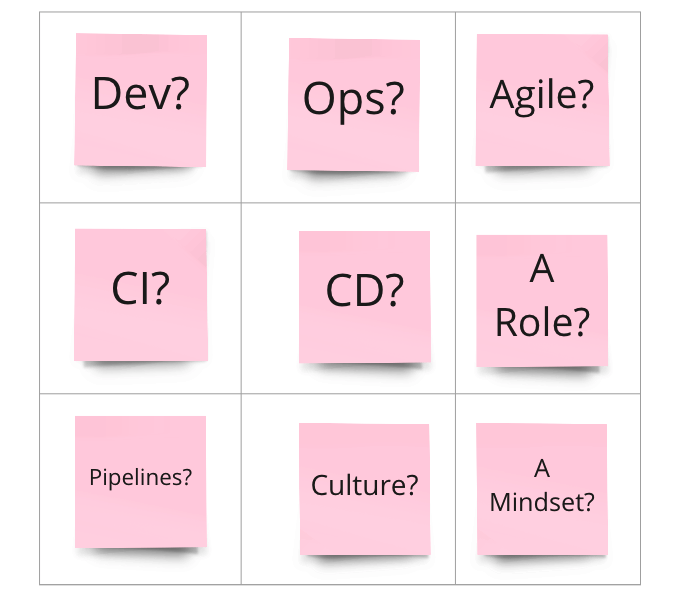
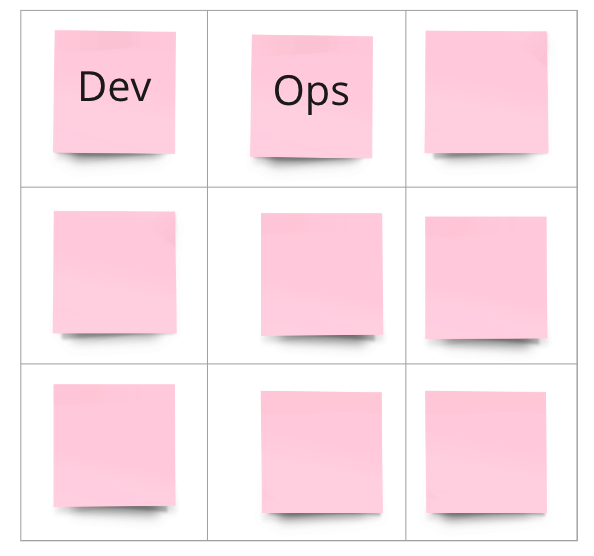
🐹 What is DevOps slides are updated 🐹

diff --git a/docs/slides/content/what-is-devops.md b/docs/slides/content/what-is-devops.md
@@ -5,6 +5,7 @@ TL500 <!-- {.element: class="title-color"} -->
 
 
 
+#### _Choose one of the two exercises that you like most :)_
 ## Exercise - DevOps is...
 _Complete the sentence "DevOps is..."_
 1. Everyone grab one sticky note.
@@ -14,17 +15,55 @@ come to mind.
 
 
 
+## Exercise - What is DevOps?
+* Create a 3 x 3 table on a paper sheet.
+* Fill each of your nine squares with a term, phrase, or idea related to DevOps.
+* Yell out "Bingo!!!" when you match a row up, down, or diagonal during this presentation.
+
+![devops-bingo](images/what-is-devops/devops-bingo.png)<!-- {.element: class="" style="height:450px"} -->
+
+
+
 <!--.slide: id="dev-ops" -->
 ## DevOps Culture and Practice
 
 
 
-## What is DevOps?
-* Create a 3 x 3 table on a paper sheet.
-* Fill each of your nine squares with a term, phrase, or idea related to DevOps.
-* Yell out "Bingo!!!" when you match a row up, down, or diagonal during the section.
+<div class="r-stack">
+  <div class="fragment fade-out" data-fragment-index="0" >
+    <p style="position: absolute; left:0; bottom: 0; width:100%; font-size:80%"> Happy customers - The ultimate goal of organizations</p>
+    <img src="images/what-is-devops/devops-story-1.jpg">
+  </div>
+  <div class="fragment fade-in-then-out" data-fragment-index="0" >
+    <p style="position: absolute; left:0; bottom: 0; width:95%; text-align: center; font-size:80%"> Profit - A common goal of every commercial organization</p>
+    <img src="images/what-is-devops/devops-story-2.jpg">
+  </div>
+  <div class="fragment fade-in-then-out" data-fragment-index="2" >
+    <p style="position: absolute; left:0; bottom: 0; width:95%; text-align: center; font-size:80%">Customers dreaming of the pot of gold</p>
+    <img src="images/what-is-devops/devops-story-3.jpg">
+  </div>
+  <div class="fragment fade-in-then-out" data-fragment-index="3" >
+    <p style="position: absolute; left:0; bottom: 0; width:95%; text-align: center; font-size:80%"> First Gap - Understanding and collecting customer requirements</p>
+    <img src="images/what-is-devops/devops-story-4.jpg">
+  </div>
+  <div class="fragment fade-in-then-out" data-fragment-index="4" >
+    <p style="position: absolute; left:0; bottom: 0; width:95%; text-align: center; font-size:80%">Using human-centered practices to understand customer needs</p>
+    <img src="images/what-is-devops/devops-story-5.jpg">
+  </div>
+  <div class="fragment fade-in-then-out" data-fragment-index="5" >
+    <p style="position: absolute; left:0; bottom: 0; width:95%; text-align: center; font-size:80%">Second Gap - Traditional deliverables with its drawbacks failed to achieve customer satisfaction</p>
+    <img src="images/what-is-devops/devops-story-6.jpg">
+  </div>
+  <div class="fragment fade-in-then-out" data-fragment-index="6" >
+    <p style="position: absolute; left:0; bottom: 0; width:95%; text-align: center; font-size:80%"> Implementation of DevOps practices leading to faster and better products</p>
+    <img src="images/what-is-devops/devops-story-7.jpg">
+  </div>
+  <div class="fragment fade-in-then-out" data-fragment-index="7" >
+    <p style="position: absolute; left:0; bottom: 0; width:95%; text-align: center; font-size:80%">Plugging the gaps in the software delivery process</p>
+    <img src="images/what-is-devops/devops-story-8.jpg">
+  </div>
+</div>
 
-![devops-bingo](images/what-is-devops/devops-bingo.png)<!-- {.element: class="" style="height:450px"} -->
 
 
 
@@ -83,13 +122,7 @@ _The DevOps Handbook_ <!-- {.element: class="small" style="text-align: right;"} 
 
 
 ### DevOps as It Relates to Agile
-![Feedback Loop](images/what-is-devops/feedbackloop.png)
-
-
-
-
-Implementation of DevOps practices leading to faster delivery and better products.
-![what-is-devops](images/what-is-devops/what-is-devops.jpg)
+![Feedback Loop](images/what-is-devops/feedback-loop.png)
 
 
 
